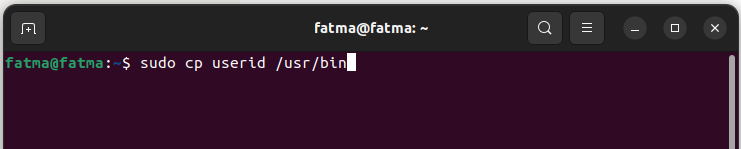
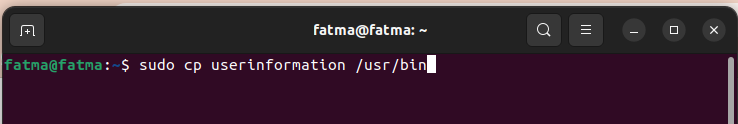
How to add a new command

diff --git a/More/How to add a new command/How to add a new command to Linux 5b1c736bbe964f238f73d88d1d289df2.md b/More/How to add a new command/How to add a new command to Linux 5b1c736bbe964f238f73d88d1d289df2.md
@@ -4,9 +4,9 @@
 
 ### For example,
 
-### if we input the “userid” command, the output will be “Userid  = the number of user IDs in the system”.
+### if we input the `“userinformation”` command, the output will give the user name and its ID in the system”.
 
-## 💡***Step 1: Write the program content for the command in any text editor***
+## 💡 ***Step 1: Write the program content for the command in any text editor***
 
 ```cpp
 #include <iostream>
@@ -17,23 +17,24 @@ using namespace std;
 
 int main()
 {
-    cout<<"userid= "<<getuid()<<endl;
+    cout<<"username = "<<getlogin()<<endl;
+    cout<<"userid = "<<getuid()<<endl;
     return 0;
 }
 ```
 
-In this code, we utilize **‘getuid’** function from **‘glibc’** library. which returns the ID of the current user in the system.
+In this code, we utilize **`‘getuid’`and `‘getlogin’`**function from `**‘glibc’**` library which returns the ID of the current user in the system and its name.
 
-## 💡*Step 2: Compile this code with g++ compiler*
-
-![Untitled](How%20to%20add%20a%20new%20command%20to%20Linux%205b1c736bbe964f238f73d88d1d289df2/Untitled.png)
+## 💡 *Step 2: Compile this code with g++ compiler*
 
  Now, we run this command in the terminal, but in the current directory !!!
+
+![Untitled](How%20to%20add%20a%20new%20command%20to%20Linux%205b1c736bbe964f238f73d88d1d289df2/Untitled.png)
 
 ## 💡 ***Step 3: Add the binary file to the system's PATH***
 
 ![Untitled](How%20to%20add%20a%20new%20command%20to%20Linux%205b1c736bbe964f238f73d88d1d289df2/Untitled%201.png)
 
-Now, we can run ‘userid’ command from anywhere 🎃
+Now, we can run `**“userinformation”**`command from anywhere 🎃
 
 ![Untitled](How%20to%20add%20a%20new%20command%20to%20Linux%205b1c736bbe964f238f73d88d1d289df2/Untitled%202.png)
